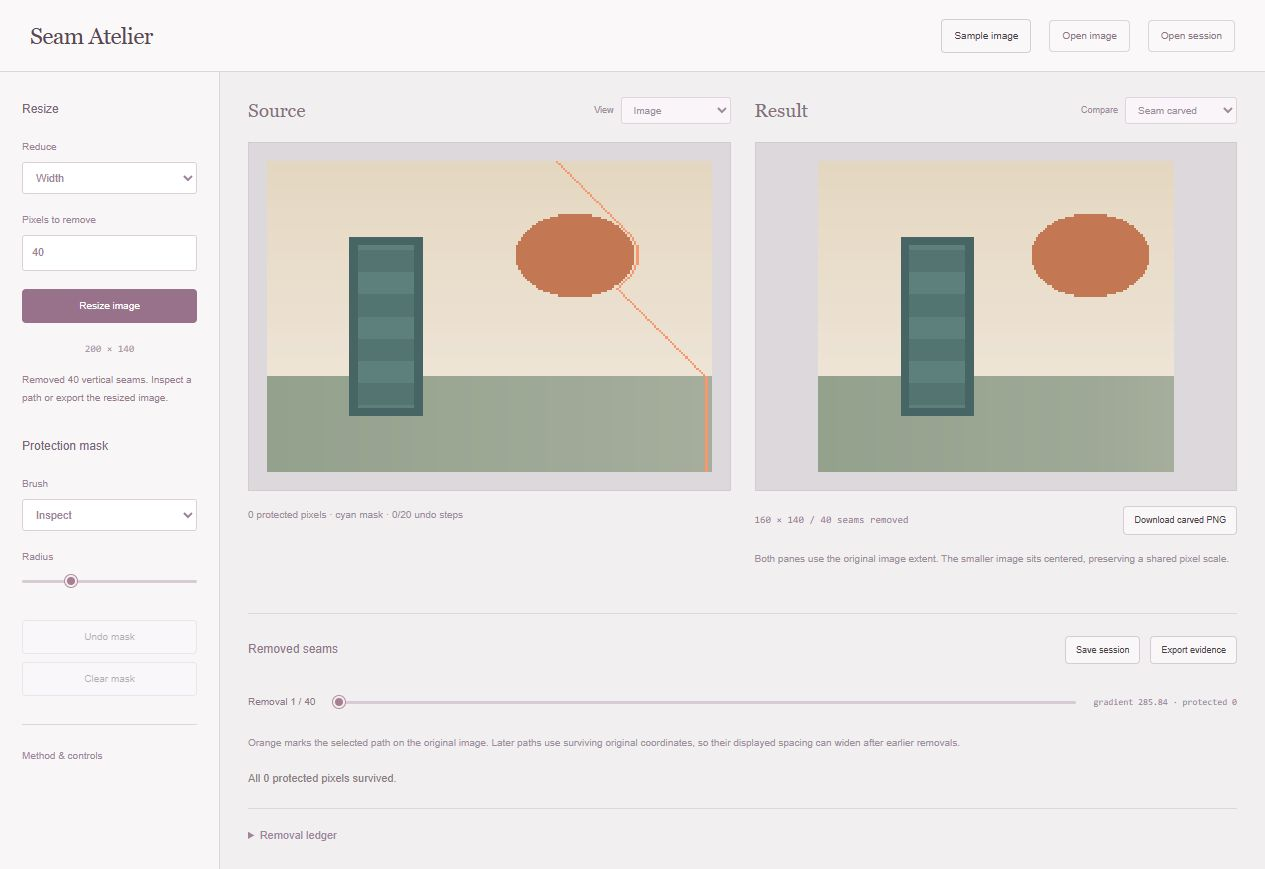
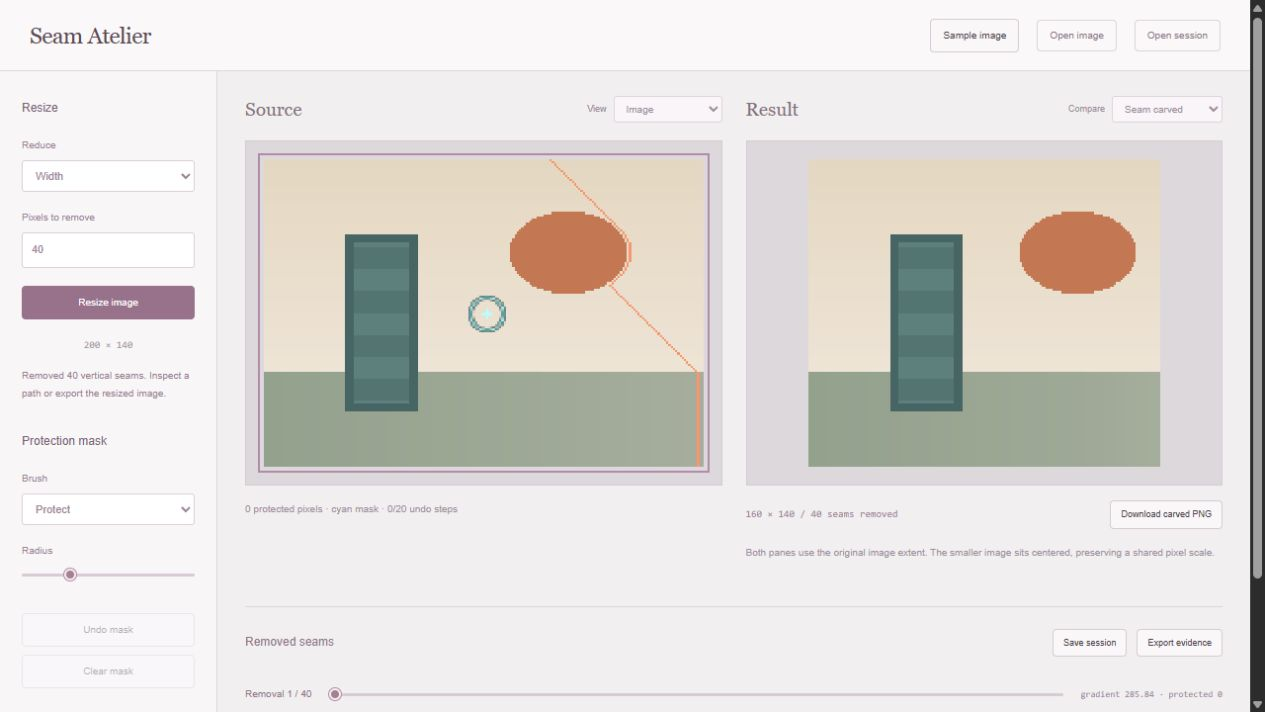
Show brush footprint and soften completed resize previews

diff --git a/app.js b/app.js
@@ -67,9 +67,27 @@ function draw() {
     for (const id of result.steps[selected].original) pixels.set([255, 154, 110, 255], id * 4);
   ctx.putImageData(new ImageData(pixels, image.width, image.height), 0, 0);
   if (cursor) {
-    ctx.strokeStyle = '#ffffff';
+    const painting = $('brush').value !== 'inspect',
+      radius = painting ? Number($('radius').value) + 0.5 : 3;
+    ctx.beginPath();
+    ctx.arc(cursor.x + 0.5, cursor.y + 0.5, radius, 0, Math.PI * 2);
+    ctx.strokeStyle = '#172e31';
+    ctx.lineWidth = 2;
+    ctx.stroke();
+    ctx.strokeStyle =
+      $('brush').value === 'protect'
+        ? '#a9ffff'
+        : $('brush').value === 'erase'
+          ? '#ffc9b0'
+          : '#fff';
     ctx.lineWidth = 1;
-    ctx.strokeRect(cursor.x - 2.5, cursor.y - 2.5, 5, 5);
+    ctx.stroke();
+    ctx.beginPath();
+    ctx.moveTo(cursor.x - 2, cursor.y + 0.5);
+    ctx.lineTo(cursor.x + 3, cursor.y + 0.5);
+    ctx.moveTo(cursor.x + 0.5, cursor.y - 2);
+    ctx.lineTo(cursor.x + 0.5, cursor.y + 3);
+    ctx.stroke();
   }
   $('mask-note').textContent =
     `${protectedCount().toLocaleString()} protected pixels · cyan mask · ${history.length}/20 undo steps`;
@@ -155,6 +173,11 @@ function run() {
     result = data.result;
     selected = 0;
     renderEvidence();
+    if (!matchMedia('(prefers-reduced-motion: reduce)').matches)
+      $('result-canvas').animate([{ opacity: 0 }, { opacity: 1 }], {
+        duration: 300,
+        easing: 'ease-out',
+      });
     status(
       `Removed ${result.count} ${result.axis === 'width' ? 'vertical' : 'horizontal'} seams. Inspect a path or export the resized image.`,
     );
@@ -224,10 +247,12 @@ $('source-canvas').addEventListener('pointerdown', (e) => {
   paintLine(cursor, cursor);
 });
 $('source-canvas').addEventListener('pointermove', (e) => {
-  if (!drawing || busy) return;
+  if (busy) return;
   cursor = point(e);
-  paintLine(lastPoint, cursor);
-  lastPoint = cursor;
+  if (drawing) {
+    paintLine(lastPoint, cursor);
+    lastPoint = cursor;
+  } else draw();
 });
 for (const event of ['pointerup', 'pointercancel', 'lostpointercapture'])
   $('source-canvas').addEventListener(event, () => {
@@ -432,3 +457,11 @@ run();
 
 $('method-open').addEventListener('click', () => $('method-panel').showModal());
 $('method-close').addEventListener('click', () => $('method-panel').close());
+
+$('source-canvas').addEventListener('pointerleave', () => {
+  if (!drawing) {
+    cursor = null;
+    draw();
+  }
+});
+for (const id of ['brush', 'radius']) $(id).addEventListener('input', draw);

diff --git a/README.md b/README.md
@@ -8,6 +8,8 @@ A content-aware image resizing workbench with protection painting, minimum-cost 
 
 Source and result images share the main workspace, with resize and protection-mask tools in a side panel. Both canvases retain identical display dimensions and the original image extent, so the resized result remains comparable at the same pixel scale. Seam selection and protection results stay beneath the images; algorithm notes open separately. Keyboard mask painting, undo, energy inspection, and uniformly scaled comparison remain available.
 
+The brush cursor follows the pointer at the selected radius, with cyan protection and peach erasure outlines. Keyboard painting uses the same cursor. Completed resize previews fade in briefly; reduced-motion preferences disable that transition. Inspection overlays remain separate from exported image pixels.
+
 ## Run
 
 Requires Python 3.10+. No runtime dependencies, services, or API keys.
